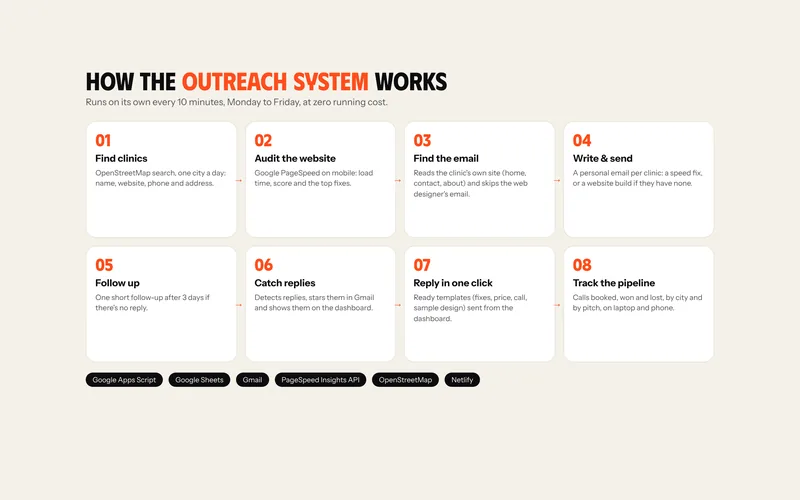
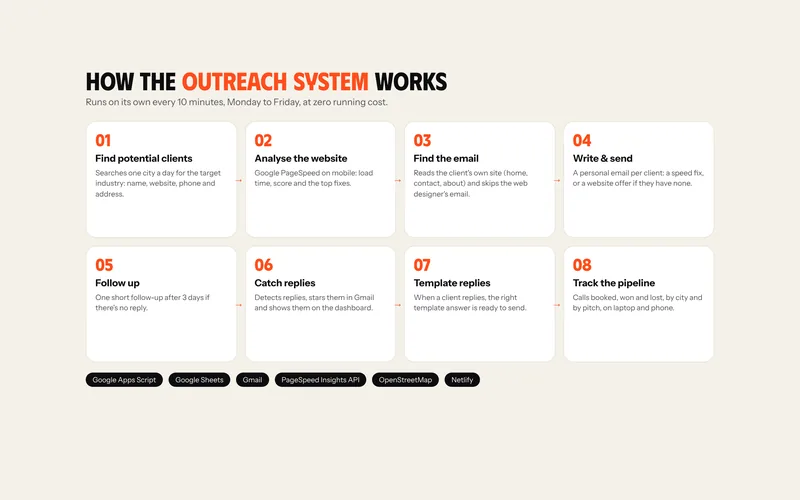
Portfolio: outreach case study talks about clients, not clinics
The page text and the how-it-works diagram now describe the system for
any industry: it analyses each client's website, checks its speed and
sends a personal email; clients without a website get their own
message; replies get a ready template answer. Screenshots unchanged.

Claude-Session: https://claude.ai/code/session_01NT32gC4hiPfkDJhWDJTK5k

diff --git a/sakthi-portfolio/work/astra-lead-outreach-automation.html b/sakthi-portfolio/work/astra-lead-outreach-automation.html
@@ -4,13 +4,13 @@
 <meta charset="utf-8"/>
 <meta content="width=device-width, initial-scale=1.0, viewport-fit=cover" name="viewport"/>
 <title>Automated Lead Generation &amp; Outreach System – Case Study | S Saktheeswaran</title>
-<meta content="How S. Saktheeswaran built a system that finds clinics, audits their websites with Google PageSpeed, sends personal emails and follow-ups, and tracks replies on a dashboard, at zero running cost." name="description"/>
+<meta content="How S. Saktheeswaran built a system that finds potential clients, analyses their websites with Google PageSpeed, sends personal emails and follow-ups, and answers replies from templates, at zero running cost." name="description"/>
 <meta content="index, follow, max-image-preview:large" name="robots"/>
 <link href="https://saktheeswaran.netlify.app/work/astra-lead-outreach-automation.html" rel="canonical"/>
 <meta content="#F5F1EA" name="theme-color"/>
 <meta content="profile" property="og:type"/>
 <meta content="Automated Lead Generation &amp; Outreach System – Case Study | S Saktheeswaran" property="og:title"/>
-<meta content="How S. Saktheeswaran built a system that finds clinics, audits their websites with Google PageSpeed, sends personal emails and follow-ups, and tracks replies on a dashboard, at zero running cost." property="og:description"/>
+<meta content="How S. Saktheeswaran built a system that finds potential clients, analyses their websites with Google PageSpeed, sends personal emails and follow-ups, and answers replies from templates, at zero running cost." property="og:description"/>
 <meta content="https://saktheeswaran.netlify.app/work/astra-lead-outreach-automation.html" property="og:url"/>
 <meta content="https://saktheeswaran.netlify.app/assets/og.jpg" property="og:image"/>
 <meta content="summary_large_image" name="twitter:card"/>
@@ -30,7 +30,7 @@
   {
    "@type": "CreativeWork",
    "name": "Astra Nexora – Automated Lead Outreach System",
-   "description": "A system that finds clinics, audits their websites, writes each one a personal email and tracks every reply, on its own and at zero running cost.",
+   "description": "A system that finds potential clients, analyses each client's website, checks its speed and sends a personal email, then tracks every reply, on its own and at zero running cost.",
    "url": "https://saktheeswaran.netlify.app/work/astra-lead-outreach-automation.html",
    "creator": {
     "@type": "Person",
@@ -86,8 +86,8 @@
 <a class="back" href="../index.html#work">← All projects</a>
 <span class="kicker">Lead Generation Automation</span>
 <h1>Astra Nexora – Automated Lead Outreach System</h1>
-<p class="sec-lead">A system that finds clinics, audits their websites, writes each one a personal email and tracks every reply, on its own and at zero running cost.</p>
-<ul class="cs-meta"><li><small>Year</small><b>2026</b></li><li><small>Industry</small><b>B2B outreach to clinics</b></li><li><small>Client</small><b>Astra Nexora (my agency)</b></li><li><small>Role</small><b>System design &amp; build</b></li></ul>
+<p class="sec-lead">A system that finds potential clients, analyses each client's website, checks its speed and sends a personal email, then tracks every reply, on its own and at zero running cost.</p>
+<ul class="cs-meta"><li><small>Year</small><b>2026</b></li><li><small>Industry</small><b>Any business (B2B outreach)</b></li><li><small>Client</small><b>Astra Nexora (my agency)</b></li><li><small>Role</small><b>System design &amp; build</b></li></ul>
 <div class="actions"><a class="btn btn-dark" href="../index.html#contact"><span>Start a project</span><svg aria-hidden="true" class="ic arrow" fill="none" stroke="currentColor" stroke-linecap="round" stroke-linejoin="round" stroke-width="2" viewbox="0 0 24 24"><path d="M5 12h14M13 6l6 6-6 6"/></svg></a></div>
 </div>
 <div class="wrap"><figure class="cs-cover"><img alt="Astra Nexora – Automated Lead Outreach System screenshot" decoding="async" height="875" fetchpriority="high" sizes="(min-width: 1001px) 1200px, 94vw" src="../assets/work/leadauto-1-w1400.webp" srcset="../assets/work/leadauto-1-w800.webp 800w, ../assets/work/leadauto-1-w1400.webp 1400w" width="1400"/></figure></div>
@@ -95,13 +95,13 @@
 
 
 
-<section class="sec cs-glance"><div class="wrap"><ul class="gl-grid"><li class="gl" data-reveal=""><span class="gl-ic"><svg aria-hidden="true" class="ic" fill="none" stroke="currentColor" stroke-linecap="round" stroke-linejoin="round" stroke-width="1.7" viewbox="0 0 24 24"><circle cx="11" cy="11" r="6.5"/><path d="m20 20-4.2-4.2M8.5 12.5l2-2 1.5 1.5 2.5-3"/></svg></span><small>The problem</small><p>Finding clinics, checking each website and writing every email by hand took 15 to 20 minutes per clinic.</p></li><li class="gl" data-reveal=""><span class="gl-ic"><svg aria-hidden="true" class="ic" fill="none" stroke="currentColor" stroke-linecap="round" stroke-linejoin="round" stroke-width="1.7" viewbox="0 0 24 24"><path d="M12 3v3M12 18v3M3 12h3M18 12h3"/><rect x="7" y="7" width="10" height="10" rx="2.5"/><path d="M10 12h4M12 10v4"/></svg></span><small>The solution</small><p>An automated pipeline that finds clinics, audits their websites with Google PageSpeed, finds the right email and sends a personal pitch, with a dashboard to answer replies.</p></li><li class="gl" data-reveal=""><span class="gl-ic"><svg aria-hidden="true" class="ic" fill="none" stroke="currentColor" stroke-linecap="round" stroke-linejoin="round" stroke-width="1.7" viewbox="0 0 24 24"><circle cx="12" cy="12" r="9"/><path d="m8 12 3 3 5-6"/></svg></span><small>The result</small><p>Lead research to a personalised email in under a minute per clinic, every weekday, at zero running cost.</p></li></ul></div></section>
+<section class="sec cs-glance"><div class="wrap"><ul class="gl-grid"><li class="gl" data-reveal=""><span class="gl-ic"><svg aria-hidden="true" class="ic" fill="none" stroke="currentColor" stroke-linecap="round" stroke-linejoin="round" stroke-width="1.7" viewbox="0 0 24 24"><circle cx="11" cy="11" r="6.5"/><path d="m20 20-4.2-4.2M8.5 12.5l2-2 1.5 1.5 2.5-3"/></svg></span><small>The problem</small><p>Finding potential clients, checking each website and writing every email by hand took 15 to 20 minutes per client.</p></li><li class="gl" data-reveal=""><span class="gl-ic"><svg aria-hidden="true" class="ic" fill="none" stroke="currentColor" stroke-linecap="round" stroke-linejoin="round" stroke-width="1.7" viewbox="0 0 24 24"><path d="M12 3v3M12 18v3M3 12h3M18 12h3"/><rect x="7" y="7" width="10" height="10" rx="2.5"/><path d="M10 12h4M12 10v4"/></svg></span><small>The solution</small><p>A system that analyses each client's website, checks its speed and sends a personal email. Clients without a website get a different message, and every reply gets a ready template answer.</p></li><li class="gl" data-reveal=""><span class="gl-ic"><svg aria-hidden="true" class="ic" fill="none" stroke="currentColor" stroke-linecap="round" stroke-linejoin="round" stroke-width="1.7" viewbox="0 0 24 24"><circle cx="12" cy="12" r="9"/><path d="m8 12 3 3 5-6"/></svg></span><small>The result</small><p>Lead research to a personalised email in under a minute per client, every weekday, at zero running cost.</p></li></ul></div></section>
 
 <section class="sec cs-body cs-story">
 <div class="wrap cs-in">
 <div class="cs-text">
-<div class="cs-row" data-reveal=""><h2><span>01</span>The challenge</h2><p>Outreach is how a small agency finds new clients, but doing it properly is slow. For every clinic I had to find it, open its website on my phone, run a speed test, look for an email address, and then write an email that mentions what I actually found. That is 15 to 20 minutes per clinic, and it always lost out to client work.</p><p>Mass emails were not an option either. A doctor ignores a generic "we do websites" email, and sending lots of them gets a Gmail account flagged as spam.</p></div>
-<div class="cs-row" data-reveal=""><h2><span>02</span>My approach</h2><p>Automate the slow research, not the relationship. The system does the searching, testing and first draft for every clinic, and each email is built around that clinic's own website: its real load time, its real score and the fixes Google suggests. Clinics without a website get a different pitch: an offer to build one.</p><p>Sending is deliberately slow and polite: at most 10 emails a day, one every 10 minutes during working hours, one follow-up, and an easy way to say no. Every reply comes back to me, and I answer it myself.</p></div>
+<div class="cs-row" data-reveal=""><h2><span>01</span>The challenge</h2><p>Outreach is how an agency finds new clients, but doing it properly is slow. For every potential client I had to find the business, open its website on my phone, run a speed test, look for an email address, and then write an email about what I actually found. That is 15 to 20 minutes per client, and it always lost out to client work.</p><p>Mass emails were not an option either. A business owner ignores a generic "we do websites" email, and sending lots of them gets a Gmail account flagged as spam.</p></div>
+<div class="cs-row" data-reveal=""><h2><span>02</span>My approach</h2><p>Automate the slow research, not the relationship. For every client, the system analyses the website, checks its mobile speed and writes an email built around what it found: the real load time, the score and the fixes Google suggests. Clients without a website get a different message: an offer to build one.</p><p>When a client replies, the right template reply is ready to send. Sending stays slow and polite: at most 10 emails a day, one every 10 minutes during working hours, one follow-up, and an easy way to say no. The system works for any industry; only the search and the wording change.</p></div>
 </div>
 <aside class="cs-side" data-reveal=""><h3>What I delivered</h3><ul class="kw-list"><li><svg aria-hidden="true" class="ic check" fill="none" stroke="currentColor" stroke-linecap="round" stroke-linejoin="round" stroke-width="2.2" viewbox="0 0 24 24"><path d="m5 12.5 4.5 4.5L19 7.5"/></svg><span>Workflow design</span></li><li><svg aria-hidden="true" class="ic check" fill="none" stroke="currentColor" stroke-linecap="round" stroke-linejoin="round" stroke-width="2.2" viewbox="0 0 24 24"><path d="m5 12.5 4.5 4.5L19 7.5"/></svg><span>Google Apps Script automation</span></li><li><svg aria-hidden="true" class="ic check" fill="none" stroke="currentColor" stroke-linecap="round" stroke-linejoin="round" stroke-width="2.2" viewbox="0 0 24 24"><path d="m5 12.5 4.5 4.5L19 7.5"/></svg><span>Website audits with the PageSpeed API</span></li><li><svg aria-hidden="true" class="ic check" fill="none" stroke="currentColor" stroke-linecap="round" stroke-linejoin="round" stroke-width="2.2" viewbox="0 0 24 24"><path d="m5 12.5 4.5 4.5L19 7.5"/></svg><span>Email outreach &amp; follow-ups</span></li><li><svg aria-hidden="true" class="ic check" fill="none" stroke="currentColor" stroke-linecap="round" stroke-linejoin="round" stroke-width="2.2" viewbox="0 0 24 24"><path d="m5 12.5 4.5 4.5L19 7.5"/></svg><span>Laptop &amp; phone dashboards</span></li></ul>
 <h3>Tools used</h3><ul class="chips"><li>Google Apps Script</li><li>Google Sheets</li><li>Gmail</li><li>PageSpeed Insights API</li><li>OpenStreetMap</li><li>Netlify</li></ul>
@@ -117,7 +117,7 @@
 <h2 id="buildTitle">The solution, <em>step by step</em></h2>
 
 </div>
-<div class="ft-list"><div class="ft" data-reveal=""><div class="ft-text"><span class="ft-n">01</span><h3>Clinics found automatically</h3><p>Every weekday morning the system searches the next city on its list and adds new clinics to a Google Sheet with their website, phone and address. Duplicates are skipped, and it only searches again once the current list is used up.</p></div><div class="ft-media single"><figure class="ft-shot"><img alt="Astra Nexora – Automated Lead Outreach System screenshot" decoding="async" height="875" loading="lazy" sizes="(min-width: 1001px) 640px, 92vw" src="../assets/work/leadauto-3-w1400.webp" srcset="../assets/work/leadauto-3-w800.webp 800w, ../assets/work/leadauto-3-w1400.webp 1400w" width="1400"/></figure></div></div><div class="ft no-media" data-reveal=""><div class="ft-text"><span class="ft-n">02</span><h3>A real speed audit for every website</h3><p>Each website goes through Google PageSpeed Insights on mobile. The sheet records the load time, the performance score and the two fixes that would save the most time. Sites that are already fast are skipped, so nobody gets an email about a problem they don't have.</p></div></div><div class="ft no-media" data-reveal=""><div class="ft-text"><span class="ft-n">03</span><h3>The right email address</h3><p>The system reads the clinic's own home, contact and about pages, decodes hidden addresses, and ignores the web designer's email in the footer.</p></div></div><div class="ft" data-reveal=""><div class="ft-text"><span class="ft-n">04</span><h3>A personal email, not a template blast</h3><p>Each clinic gets an email about its own website: how long it takes to load, what that costs in patients, a link to the public Google report, and my projects. Clinics without a website get a short pitch to build one. Every email asks for a one-word reply.</p></div><div class="ft-media single"><figure class="ft-shot"><img alt="Astra Nexora – Automated Lead Outreach System screenshot" decoding="async" height="875" loading="lazy" sizes="(min-width: 1001px) 640px, 92vw" src="../assets/work/leadauto-5-w1400.webp" srcset="../assets/work/leadauto-5-w800.webp 800w, ../assets/work/leadauto-5-w1400.webp 1400w" width="1400"/></figure></div></div><div class="ft no-media" data-reveal=""><div class="ft-text"><span class="ft-n">05</span><h3>Follow-ups and replies handled</h3><p>If there is no reply after three days, one short follow-up goes out. Replies are detected every 10 minutes, starred in Gmail and moved to the top of the dashboard. Bounces are marked so those addresses are never emailed again.</p></div></div><div class="ft" data-reveal=""><div class="ft-text"><span class="ft-n">06</span><h3>A dashboard for laptop and phone</h3><p>Today's activity, emails per day, the funnel from lead to client, reply rate by pitch, leads by city and the full list of leads with every detail, all from the same Google Sheet. It opens in any browser, and on the phone as a home-screen app.</p></div><div class="ft-media with-phone"><figure class="ft-shot"><img alt="Astra Nexora – Automated Lead Outreach System screenshot" decoding="async" height="875" loading="lazy" sizes="(min-width: 1001px) 640px, 92vw" src="../assets/work/leadauto-2-w1400.webp" srcset="../assets/work/leadauto-2-w800.webp 800w, ../assets/work/leadauto-2-w1400.webp 1400w" width="1400"/></figure><figure class="ft-phone"><img alt="Astra Nexora – Automated Lead Outreach System on mobile" decoding="async" height="1328" loading="lazy" sizes="220px" src="../assets/work/leadauto-m-w780.webp" srcset="../assets/work/leadauto-m-w390.webp 390w, ../assets/work/leadauto-m-w780.webp 780w" width="780"/></figure></div></div><div class="ft" data-reveal=""><div class="ft-text"><span class="ft-n">07</span><h3>Replies in one click</h3><p>Open a lead and the reply is already drafted from the right template: send the fixes in plain words, answer a price question, book a call, or close politely. Edit it and send. It goes out in the same Gmail thread.</p></div><div class="ft-media single"><figure class="ft-shot"><img alt="Astra Nexora – Automated Lead Outreach System screenshot" decoding="async" height="875" loading="lazy" sizes="(min-width: 1001px) 640px, 92vw" src="../assets/work/leadauto-4-w1400.webp" srcset="../assets/work/leadauto-4-w800.webp 800w, ../assets/work/leadauto-4-w1400.webp 1400w" width="1400"/></figure></div></div></div>
+<div class="ft-list"><div class="ft" data-reveal=""><div class="ft-text"><span class="ft-n">01</span><h3>Potential clients found automatically</h3><p>Every weekday morning the system searches the next city for the target industry and adds new businesses to a Google Sheet with their website, phone and address. Duplicates are skipped, and it only searches again once the current list is used up.</p></div><div class="ft-media single"><figure class="ft-shot"><img alt="Astra Nexora – Automated Lead Outreach System screenshot" decoding="async" height="875" loading="lazy" sizes="(min-width: 1001px) 640px, 92vw" src="../assets/work/leadauto-3-w1400.webp" srcset="../assets/work/leadauto-3-w800.webp 800w, ../assets/work/leadauto-3-w1400.webp 1400w" width="1400"/></figure></div></div><div class="ft no-media" data-reveal=""><div class="ft-text"><span class="ft-n">02</span><h3>Website analysis and speed check</h3><p>Each client's website goes through Google PageSpeed Insights on mobile. The sheet records the load time, the performance score and the two fixes that would save the most time. Fast websites are skipped, so nobody gets an email about a problem they don't have.</p></div></div><div class="ft no-media" data-reveal=""><div class="ft-text"><span class="ft-n">03</span><h3>The right email address</h3><p>The system reads the client's own home, contact and about pages, decodes hidden addresses, and ignores the web designer's email in the footer.</p></div></div><div class="ft" data-reveal=""><div class="ft-text"><span class="ft-n">04</span><h3>A personal email for every client</h3><p>Clients with a slow website get an email about their own site: how long it takes to load, what that costs in customers, a link to the public Google report, and my projects. Clients without a website get a message offering to build one. Every email asks for a one-word reply.</p></div><div class="ft-media single"><figure class="ft-shot"><img alt="Astra Nexora – Automated Lead Outreach System screenshot" decoding="async" height="875" loading="lazy" sizes="(min-width: 1001px) 640px, 92vw" src="../assets/work/leadauto-5-w1400.webp" srcset="../assets/work/leadauto-5-w800.webp 800w, ../assets/work/leadauto-5-w1400.webp 1400w" width="1400"/></figure></div></div><div class="ft no-media" data-reveal=""><div class="ft-text"><span class="ft-n">05</span><h3>Follow-ups and replies handled</h3><p>If there is no reply after three days, one short follow-up goes out. Replies are detected every 10 minutes, starred in Gmail and moved to the top of the dashboard. Bounces are marked so those addresses are never emailed again.</p></div></div><div class="ft" data-reveal=""><div class="ft-text"><span class="ft-n">06</span><h3>A dashboard for laptop and phone</h3><p>Today's activity, emails per day, the funnel from lead to client, reply rate by message type, leads by city and every lead with its details, all from the same Google Sheet. It opens in any browser, and on the phone as a home-screen app.</p></div><div class="ft-media with-phone"><figure class="ft-shot"><img alt="Astra Nexora – Automated Lead Outreach System screenshot" decoding="async" height="875" loading="lazy" sizes="(min-width: 1001px) 640px, 92vw" src="../assets/work/leadauto-2-w1400.webp" srcset="../assets/work/leadauto-2-w800.webp 800w, ../assets/work/leadauto-2-w1400.webp 1400w" width="1400"/></figure><figure class="ft-phone"><img alt="Astra Nexora – Automated Lead Outreach System on mobile" decoding="async" height="1328" loading="lazy" sizes="220px" src="../assets/work/leadauto-m-w780.webp" srcset="../assets/work/leadauto-m-w390.webp 390w, ../assets/work/leadauto-m-w780.webp 780w" width="780"/></figure></div></div><div class="ft" data-reveal=""><div class="ft-text"><span class="ft-n">07</span><h3>A template reply for every answer</h3><p>When a client replies, the answer is already drafted from the right template: send the fixes in plain words, answer a price question, book a call, or close politely. Edit it and send. It goes out in the same Gmail thread.</p></div><div class="ft-media single"><figure class="ft-shot"><img alt="Astra Nexora – Automated Lead Outreach System screenshot" decoding="async" height="875" loading="lazy" sizes="(min-width: 1001px) 640px, 92vw" src="../assets/work/leadauto-4-w1400.webp" srcset="../assets/work/leadauto-4-w800.webp 800w, ../assets/work/leadauto-4-w1400.webp 1400w" width="1400"/></figure></div></div></div>
 </div>
 </section>
 
@@ -129,7 +129,7 @@
 <h2 id="resTitle">What <em>changed</em></h2>
 
 </div></div>
-<ul class="res-list" data-reveal=""><li><svg aria-hidden="true" class="ic check" fill="none" stroke="currentColor" stroke-linecap="round" stroke-linejoin="round" stroke-width="2.2" viewbox="0 0 24 24"><path d="m5 12.5 4.5 4.5L19 7.5"/></svg><span>Lead research to a personalised email in under a minute per clinic</span></li><li><svg aria-hidden="true" class="ic check" fill="none" stroke="currentColor" stroke-linecap="round" stroke-linejoin="round" stroke-width="2.2" viewbox="0 0 24 24"><path d="m5 12.5 4.5 4.5L19 7.5"/></svg><span>Every email is about the clinic's own website, not a mass mailer</span></li><li><svg aria-hidden="true" class="ic check" fill="none" stroke="currentColor" stroke-linecap="round" stroke-linejoin="round" stroke-width="2.2" viewbox="0 0 24 24"><path d="m5 12.5 4.5 4.5L19 7.5"/></svg><span>Runs every weekday on its own, within a safe daily sending limit</span></li><li><svg aria-hidden="true" class="ic check" fill="none" stroke="currentColor" stroke-linecap="round" stroke-linejoin="round" stroke-width="2.2" viewbox="0 0 24 24"><path d="m5 12.5 4.5 4.5L19 7.5"/></svg><span>Every reply detected and answered from laptop or phone</span></li><li><svg aria-hidden="true" class="ic check" fill="none" stroke="currentColor" stroke-linecap="round" stroke-linejoin="round" stroke-width="2.2" viewbox="0 0 24 24"><path d="m5 12.5 4.5 4.5L19 7.5"/></svg><span>Zero running cost: Google Apps Script, Gmail and free APIs</span></li><li><svg aria-hidden="true" class="ic check" fill="none" stroke="currentColor" stroke-linecap="round" stroke-linejoin="round" stroke-width="2.2" viewbox="0 0 24 24"><path d="m5 12.5 4.5 4.5L19 7.5"/></svg><span>First two days live: 205 clinics found across three cities, 8 websites audited, 5 emails sent</span></li></ul>
+<ul class="res-list" data-reveal=""><li><svg aria-hidden="true" class="ic check" fill="none" stroke="currentColor" stroke-linecap="round" stroke-linejoin="round" stroke-width="2.2" viewbox="0 0 24 24"><path d="m5 12.5 4.5 4.5L19 7.5"/></svg><span>Lead research to a personalised email in under a minute per client</span></li><li><svg aria-hidden="true" class="ic check" fill="none" stroke="currentColor" stroke-linecap="round" stroke-linejoin="round" stroke-width="2.2" viewbox="0 0 24 24"><path d="m5 12.5 4.5 4.5L19 7.5"/></svg><span>Every email is about the client's own website, not a mass mailer</span></li><li><svg aria-hidden="true" class="ic check" fill="none" stroke="currentColor" stroke-linecap="round" stroke-linejoin="round" stroke-width="2.2" viewbox="0 0 24 24"><path d="m5 12.5 4.5 4.5L19 7.5"/></svg><span>Clients without a website get their own message</span></li><li><svg aria-hidden="true" class="ic check" fill="none" stroke="currentColor" stroke-linecap="round" stroke-linejoin="round" stroke-width="2.2" viewbox="0 0 24 24"><path d="m5 12.5 4.5 4.5L19 7.5"/></svg><span>Every reply detected and answered from a ready template, on laptop or phone</span></li><li><svg aria-hidden="true" class="ic check" fill="none" stroke="currentColor" stroke-linecap="round" stroke-linejoin="round" stroke-width="2.2" viewbox="0 0 24 24"><path d="m5 12.5 4.5 4.5L19 7.5"/></svg><span>Runs every weekday on its own, within a safe daily sending limit</span></li><li><svg aria-hidden="true" class="ic check" fill="none" stroke="currentColor" stroke-linecap="round" stroke-linejoin="round" stroke-width="2.2" viewbox="0 0 24 24"><path d="m5 12.5 4.5 4.5L19 7.5"/></svg><span>Zero running cost: Google Apps Script, Gmail and free APIs</span></li></ul>
 </div>
 </section>
 

diff --git a/sakthi-portfolio/marketing-automation-expert.html b/sakthi-portfolio/marketing-automation-expert.html
@@ -184,7 +184,7 @@
 <div class="wc-body">
 <span class="wc-cat">Lead Generation Automation</span>
 <h3>Astra Nexora – Automated Lead Outreach System</h3>
-<p>A system that finds clinics, audits their websites, writes each one a personal email and tracks every reply, on its own and at zero running cost.</p>
+<p>A system that finds potential clients, analyses each client's website, checks its speed and sends a personal email, then tracks every reply, on its own and at zero running cost.</p>
 <ul class="chips"><li>Google Apps Script</li><li>Google Sheets</li><li>Gmail</li></ul>
 </div>
 </a><a class="work-card wide" data-reveal="" data-tag="auto" href="work/ankhor-case-booking-automation.html">

diff --git a/sakthi-portfolio/index.html b/sakthi-portfolio/index.html
@@ -308,7 +308,7 @@
 <div class="wc-body">
 <span class="wc-cat">Lead Generation Automation</span>
 <h3>Astra Nexora – Automated Lead Outreach System</h3>
-<p>A system that finds clinics, audits their websites, writes each one a personal email and tracks every reply, on its own and at zero running cost.</p>
+<p>A system that finds potential clients, analyses each client's website, checks its speed and sends a personal email, then tracks every reply, on its own and at zero running cost.</p>
 <ul class="chips"><li>Google Apps Script</li><li>Google Sheets</li><li>Gmail</li></ul>
 </div>
 </a>

diff --git a/sakthi-portfolio/scripts/content.py b/sakthi-portfolio/scripts/content.py
@@ -141,19 +141,19 @@ PROJECTS = [
         "title": "Astra Nexora – Automated Lead Outreach System",
         "tag": "auto",
         "category": "Lead Generation Automation",
-        "summary": "A system that finds clinics, audits their websites, writes each one a personal email and tracks every reply, on its own and at zero running cost.",
+        "summary": "A system that finds potential clients, analyses each client's website, checks its speed and sends a personal email, then tracks every reply, on its own and at zero running cost.",
         "cover": "work/leadauto-1",
         "gallery": [],
         "live": "",
-        "meta": [("Year", "2026"), ("Industry", "B2B outreach to clinics"), ("Client", "Astra Nexora (my agency)"), ("Role", "System design & build")],
+        "meta": [("Year", "2026"), ("Industry", "Any business (B2B outreach)"), ("Client", "Astra Nexora (my agency)"), ("Role", "System design & build")],
         "sections": [
-            ("The challenge", "Finding clinics, checking each website and writing every email by hand took 15 to 20 minutes "
-             "per clinic, so outreach kept getting pushed aside by client work."),
-            ("Strategy", "Automate the research and the first email, keep every email personal to the clinic's own website, "
+            ("The challenge", "Finding potential clients, checking each website and writing every email by hand took 15 to "
+             "20 minutes per client, so outreach kept getting pushed aside by client work."),
+            ("Strategy", "Automate the research and the first email, keep every email personal to the client's own website, "
              "and put every reply in one dashboard."),
             ("What I did", "Built the whole pipeline in Google Apps Script: lead search, Google PageSpeed audits, email "
              "finding, personal emails and follow-ups, reply detection, and laptop and phone dashboards with reply templates."),
-            ("Outcome", "Lead research to a personalised email in under a minute per clinic, running on its own every weekday."),
+            ("Outcome", "Lead research to a personalised email in under a minute per client, running on its own every weekday."),
         ],
         "tools": ["Google Apps Script", "Google Sheets", "Gmail", "PageSpeed Insights API", "OpenStreetMap", "Netlify"],
     },
@@ -374,7 +374,7 @@ PROJECT_SEO = {
     "astra-nexora-website": ("Digital Marketing Agency Website – Astra Nexora Case Study",
                              "How S. Saktheeswaran planned and launched the Astra Nexora agency website: service pages, an SEO blog, structured data and a WhatsApp enquiry form."),
     "astra-lead-outreach-automation": ("Automated Lead Generation & Outreach System – Case Study",
-                                       "How S. Saktheeswaran built a system that finds clinics, audits their websites with Google PageSpeed, sends personal emails and follow-ups, and tracks replies on a dashboard, at zero running cost."),
+                                       "How S. Saktheeswaran built a system that finds potential clients, analyses their websites with Google PageSpeed, sends personal emails and follow-ups, and answers replies from templates, at zero running cost."),
     "ankhor-case-booking-automation": ("Dental Lab Case Portal & Automation – Ankhor Case Study",
                                        "An online case portal, scan booking platform, dashboards, email and WhatsApp alerts and a mobile app for Ankhor Dental Lab."),
     "ankhor-dental-lab": ("Dental Lab Website & SEO – Ankhor Dental Lab Case Study",
@@ -1114,53 +1114,53 @@ STORIES = {
         "insight": "dental-lab-website-seo",
     },
     "astra-lead-outreach-automation": {
-        "glance": ("Finding clinics, checking each website and writing every email by hand took 15 to 20 minutes per clinic.",
-                   "An automated pipeline that finds clinics, audits their websites with Google PageSpeed, finds the right "
-                   "email and sends a personal pitch, with a dashboard to answer replies.",
-                   "Lead research to a personalised email in under a minute per clinic, every weekday, at zero running cost."),
-        "challenge": ["Outreach is how a small agency finds new clients, but doing it properly is slow. For every clinic I had "
-                      "to find it, open its website on my phone, run a speed test, look for an email address, and then "
-                      "write an email that mentions what I actually found. That is 15 to 20 minutes per clinic, and it "
-                      "always lost out to client work.",
-                      "Mass emails were not an option either. A doctor ignores a generic \"we do websites\" email, and "
-                      "sending lots of them gets a Gmail account flagged as spam."],
-        "approach": ["Automate the slow research, not the relationship. The system does the searching, testing and first "
-                     "draft for every clinic, and each email is built around that clinic's own website: its real load "
-                     "time, its real score and the fixes Google suggests. Clinics without a website get a different "
-                     "pitch: an offer to build one.",
-                     "Sending is deliberately slow and polite: at most 10 emails a day, one every 10 minutes during "
-                     "working hours, one follow-up, and an easy way to say no. Every reply comes back to me, and I "
-                     "answer it myself."],
+        "glance": ("Finding potential clients, checking each website and writing every email by hand took 15 to 20 minutes per client.",
+                   "A system that analyses each client's website, checks its speed and sends a personal email. Clients "
+                   "without a website get a different message, and every reply gets a ready template answer.",
+                   "Lead research to a personalised email in under a minute per client, every weekday, at zero running cost."),
+        "challenge": ["Outreach is how an agency finds new clients, but doing it properly is slow. For every potential "
+                      "client I had to find the business, open its website on my phone, run a speed test, look for an "
+                      "email address, and then write an email about what I actually found. That is 15 to 20 minutes per "
+                      "client, and it always lost out to client work.",
+                      "Mass emails were not an option either. A business owner ignores a generic \"we do websites\" "
+                      "email, and sending lots of them gets a Gmail account flagged as spam."],
+        "approach": ["Automate the slow research, not the relationship. For every client, the system analyses the "
+                     "website, checks its mobile speed and writes an email built around what it found: the real load "
+                     "time, the score and the fixes Google suggests. Clients without a website get a different message: "
+                     "an offer to build one.",
+                     "When a client replies, the right template reply is ready to send. Sending stays slow and polite: "
+                     "at most 10 emails a day, one every 10 minutes during working hours, one follow-up, and an easy "
+                     "way to say no. The system works for any industry; only the search and the wording change."],
         "features": [
-            ("Clinics found automatically", "Every weekday morning the system searches the next city on its list and "
-             "adds new clinics to a Google Sheet with their website, phone and address. Duplicates are skipped, and it "
-             "only searches again once the current list is used up.", ["work/leadauto-3"]),
-            ("A real speed audit for every website", "Each website goes through Google PageSpeed Insights on mobile. "
+            ("Potential clients found automatically", "Every weekday morning the system searches the next city for the "
+             "target industry and adds new businesses to a Google Sheet with their website, phone and address. "
+             "Duplicates are skipped, and it only searches again once the current list is used up.", ["work/leadauto-3"]),
+            ("Website analysis and speed check", "Each client's website goes through Google PageSpeed Insights on mobile. "
              "The sheet records the load time, the performance score and the two fixes that would save the most time. "
-             "Sites that are already fast are skipped, so nobody gets an email about a problem they don't have.", []),
-            ("The right email address", "The system reads the clinic's own home, contact and about pages, decodes "
+             "Fast websites are skipped, so nobody gets an email about a problem they don't have.", []),
+            ("The right email address", "The system reads the client's own home, contact and about pages, decodes "
              "hidden addresses, and ignores the web designer's email in the footer.", []),
-            ("A personal email, not a template blast", "Each clinic gets an email about its own website: how long it "
-             "takes to load, what that costs in patients, a link to the public Google report, and my projects. "
-             "Clinics without a website get a short pitch to build one. Every email asks for a one-word reply.",
-             ["work/leadauto-5"]),
+            ("A personal email for every client", "Clients with a slow website get an email about their own site: how "
+             "long it takes to load, what that costs in customers, a link to the public Google report, and my "
+             "projects. Clients without a website get a message offering to build one. Every email asks for a "
+             "one-word reply.", ["work/leadauto-5"]),
             ("Follow-ups and replies handled", "If there is no reply after three days, one short follow-up goes out. "
              "Replies are detected every 10 minutes, starred in Gmail and moved to the top of the dashboard. Bounces "
              "are marked so those addresses are never emailed again.", []),
             ("A dashboard for laptop and phone", "Today's activity, emails per day, the funnel from lead to client, "
-             "reply rate by pitch, leads by city and the full list of leads with every detail, all from the same "
-             "Google Sheet. It opens in any browser, and on the phone as a home-screen app.",
+             "reply rate by message type, leads by city and every lead with its details, all from the same Google "
+             "Sheet. It opens in any browser, and on the phone as a home-screen app.",
              ["work/leadauto-2", "work/leadauto-m"]),
-            ("Replies in one click", "Open a lead and the reply is already drafted from the right template: send the "
-             "fixes in plain words, answer a price question, book a call, or close politely. Edit it and send. It goes "
-             "out in the same Gmail thread.", ["work/leadauto-4"]),
+            ("A template reply for every answer", "When a client replies, the answer is already drafted from the right "
+             "template: send the fixes in plain words, answer a price question, book a call, or close politely. Edit "
+             "it and send. It goes out in the same Gmail thread.", ["work/leadauto-4"]),
         ],
-        "results": ["Lead research to a personalised email in under a minute per clinic",
-                    "Every email is about the clinic's own website, not a mass mailer",
+        "results": ["Lead research to a personalised email in under a minute per client",
+                    "Every email is about the client's own website, not a mass mailer",
+                    "Clients without a website get their own message",
+                    "Every reply detected and answered from a ready template, on laptop or phone",
                     "Runs every weekday on its own, within a safe daily sending limit",
-                    "Every reply detected and answered from laptop or phone",
-                    "Zero running cost: Google Apps Script, Gmail and free APIs",
-                    "First two days live: 205 clinics found across three cities, 8 websites audited, 5 emails sent"],
+                    "Zero running cost: Google Apps Script, Gmail and free APIs"],
         "services": ["Workflow design", "Google Apps Script automation", "Website audits with the PageSpeed API",
                      "Email outreach & follow-ups", "Laptop & phone dashboards"],
         "insight": "",
